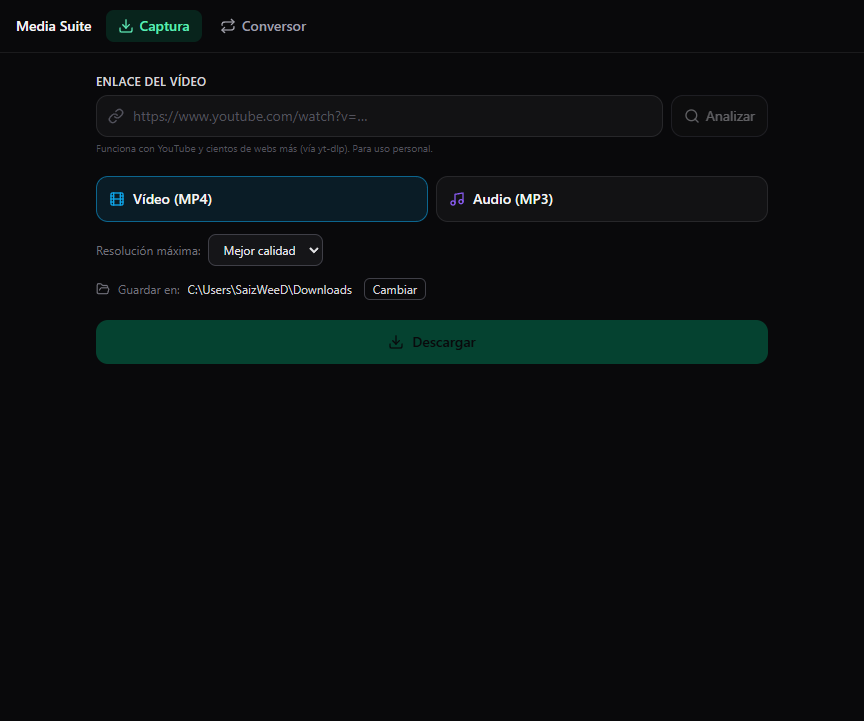
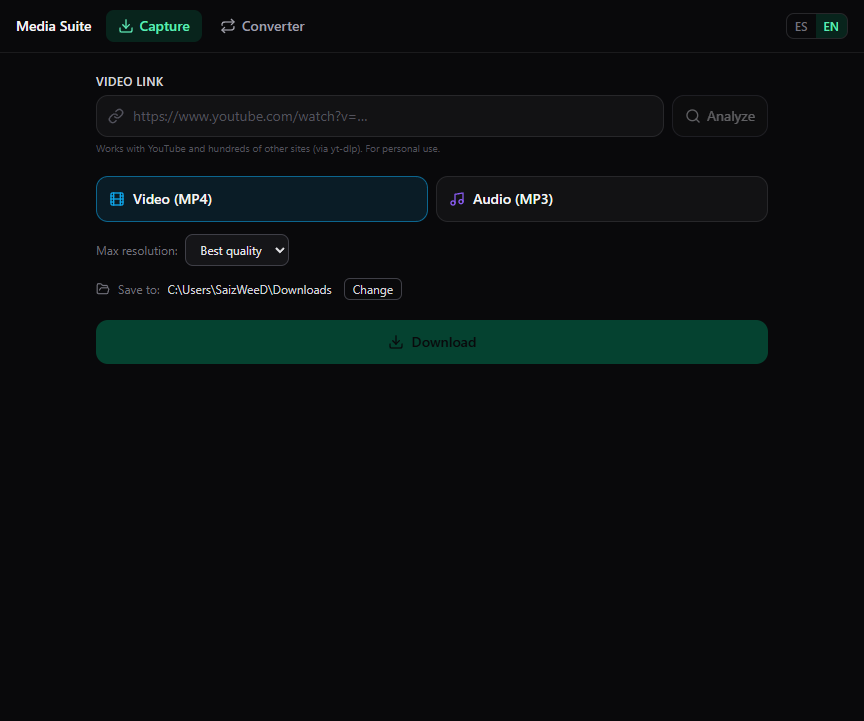
docs: README bilingüe (EN principal + ES) y capturas EN/ES

diff --git a/README.md b/README.md
@@ -4,100 +4,101 @@
 
 # Media Suite
 
-**Descarga y convierte vídeo y audio — app de escritorio para Windows.**
+**Download and convert video & audio — a desktop app for Windows.**
 
-[![Descargar](https://img.shields.io/badge/⬇_Descargar-Releases-10b981?style=for-the-badge)](../../releases/latest)
+[![Download](https://img.shields.io/badge/⬇_Download-Releases-10b981?style=for-the-badge)](../../releases/latest)
 
 [![Electron](https://img.shields.io/badge/Electron-42-47848F?logo=electron&logoColor=white)](https://www.electronjs.org/)
 [![React](https://img.shields.io/badge/React-19-149ECA?logo=react&logoColor=white)](https://react.dev/)
 [![TypeScript](https://img.shields.io/badge/TypeScript-6-3178C6?logo=typescript&logoColor=white)](https://www.typescriptlang.org/)
 [![Tailwind CSS](https://img.shields.io/badge/Tailwind-4-38BDF8?logo=tailwindcss&logoColor=white)](https://tailwindcss.com/)
 
+**English** · [Español](README.es.md)
+
 </div>
 
-Aplicación de escritorio que reúne dos herramientas en una interfaz limpia y rápida:
+A desktop application that bundles two tools in one clean, bilingual interface:
 
-- 🎬 **Captura** — descarga vídeo o audio de YouTube y [cientos de webs más](https://github.com/yt-dlp/yt-dlp/blob/master/supportedsites.md).
-- 🔄 **Conversor** — convierte entre formatos de vídeo y audio con **FFmpeg nativo**.
+- 🎬 **Capture** — download video or audio from YouTube and [hundreds of other sites](https://github.com/yt-dlp/yt-dlp/blob/master/supportedsites.md).
+- 🔄 **Converter** — convert between video and audio formats with **native FFmpeg**.
 
 ---
 
-## 🖼️ Vistazo
+## 🖼️ A look
 
-| Captura (descargas) | Conversor |
+| Capture (downloads) | Converter |
 |:--:|:--:|
-| ![Pestaña Captura](docs/screenshot-captura.png) | ![Pestaña Conversor](docs/screenshot-conversor.png) |
+| ![Capture tab](docs/screenshot-captura.png) | ![Converter tab](docs/screenshot-conversor.png) |
 
 ---
 
-## ⬇️ Descargar e instalar
+## ⬇️ Download & install
 
-Entra en **[Releases](../../releases/latest)** y elige:
+Open **[Releases](../../releases/latest)** and choose:
 
-| Archivo | Qué es |
+| File | What it is |
 |---|---|
-| **`Media Suite Setup x.y.z.exe`** | Instalador para Windows (crea accesos directos). |
-| **`Media Suite-x.y.z-win.zip`** | Versión **portable**: descomprime y ejecuta `Media Suite.exe`, sin instalar. |
+| **`Media Suite Setup x.y.z.exe`** | Windows installer (creates shortcuts). |
+| **`Media Suite-x.y.z-win.zip`** | **Portable** build: unzip and run `Media Suite.exe`, no install. |
 
-> 💡 La primera vez que uses **Captura**, la app descarga `yt-dlp` automáticamente (una sola vez). **FFmpeg ya va incluido.**
+> 💡 The first time you use **Capture**, the app downloads `yt-dlp` automatically (once). **FFmpeg is already bundled.**
 >
-> ⚠️ Al no estar firmada digitalmente, Windows SmartScreen puede avisar la primera vez → *Más información → Ejecutar de todas formas*.
+> ⚠️ The app is unsigned, so Windows SmartScreen may warn on first launch → *More info → Run anyway*.
 
 ---
 
-## ✨ Características
+## ✨ Features
 
-**Captura**
-- Descarga en **vídeo (MP4)** con resolución a elegir, o **audio (MP3)**.
-- Vista previa de título, autor y duración antes de descargar.
-- Progreso en tiempo real y acceso directo al archivo o su carpeta.
+**Capture**
+- Download as **video (MP4)** with selectable resolution, or **audio (MP3)**.
+- Preview title, author and duration before downloading.
+- Real-time progress and one-click access to the file or its folder.
 
-**Conversor**
-- Arrastra y suelta archivos (o selección por diálogo nativo).
-- **Vídeo↔vídeo**, **vídeo→audio** y **audio↔audio**.
-- Selector de calidad y conversión por lotes.
+**Converter**
+- Drag & drop files (or pick them via a native dialog).
+- **Video↔video**, **video→audio** and **audio↔audio**.
+- Quality selector and batch processing.
 
-| Vídeo | Audio |
+| Video | Audio |
 |---|---|
 | MP4 · MKV · MOV · WebM · AVI | MP3 · AAC · M4A · Opus · OGG · WAV · FLAC |
 
+🌐 **Bilingual UI** — English / Spanish, auto-detected and switchable in-app.
+
 ---
 
-## 🧱 Cómo está hecho
+## 🧱 How it's built
 
-| Capa | Tecnología |
+| Layer | Technology |
 |---|---|
-| Escritorio | **Electron** + electron-vite |
-| Interfaz | **React 19** · TypeScript · Tailwind CSS v4 |
-| Descargas | **yt-dlp** (binario gestionado en runtime) |
-| Multimedia | **FFmpeg** (binario embebido) |
-| Empaquetado | electron-builder → instalador NSIS + ZIP |
+| Desktop | **Electron** + electron-vite |
+| UI | **React 19** · TypeScript · Tailwind CSS v4 |
+| Downloads | **yt-dlp** (binary managed at runtime) |
+| Media | **FFmpeg** (bundled binary) |
+| Packaging | electron-builder → NSIS installer + ZIP |
 
-**Arquitectura.** Separación estricta en tres procesos comunicados por un puente
-IPC mínimo y tipado:
+**Architecture.** Strict separation into three processes communicating through a
+minimal, typed IPC bridge:
 
-- **Main (Node).** Ciclo de vida de la app y operaciones con el sistema: lanza
-  FFmpeg para convertir (con progreso parseado de su salida) y yt-dlp para
-  descargar. Resuelve la ruta del binario de FFmpeg también en la app empaquetada
-  (`app.asar.unpacked`).
-- **Preload.** Expone una API mínima y segura (`window.api`) mediante
-  `contextBridge` — la única vía por la que la interfaz habla con el sistema.
-- **Renderer (React).** La interfaz, ejecutada con `contextIsolation` y **sin**
-  `nodeIntegration`. No tiene acceso directo a Node ni al sistema de archivos.
-
----
-
-## 🔒 Código
-
-El código fuente de esta aplicación es **privado**. Este repositorio contiene la
-ficha del proyecto y las descargas. Para una demo técnica o acceso al código,
-contacta con el autor.
+- **Main (Node).** App lifecycle and system operations: runs FFmpeg to convert
+  (with progress parsed from its output) and yt-dlp to download. Resolves the
+  FFmpeg binary path even in the packaged app (`app.asar.unpacked`).
+- **Preload.** Exposes a minimal, secure API (`window.api`) via `contextBridge`
+  — the only channel between the UI and the system.
+- **Renderer (React).** The UI, running with `contextIsolation` and **no**
+  `nodeIntegration`. No direct access to Node or the file system.
 
 ---
 
-## ⚖️ Licencia
+## 🔒 Source code
 
-Software propietario — **todos los derechos reservados** ([LICENSE](LICENSE)).
-Los binarios de *Releases* pueden usarse para fines **personales**.
-Descarga únicamente contenido sobre el que tengas derechos; respeta los términos
-de cada servicio.
+The source code of this app is **private**. This repository hosts the project
+page and the downloads. For a technical demo or code access, contact the author.
+
+---
+
+## ⚖️ License
+
+Proprietary software — **all rights reserved** ([LICENSE](LICENSE)).
+Binaries under *Releases* may be used for **personal** purposes.
+Only download content you have the rights to, and respect each service's terms.

diff --git a/README.es.md b/README.es.md
@@ -1,0 +1,107 @@
+<div align="center">
+
+<img src="docs/icon.png" width="120" alt="Media Suite" />
+
+# Media Suite
+
+**Descarga y convierte vídeo y audio — app de escritorio para Windows.**
+
+[![Descargar](https://img.shields.io/badge/⬇_Descargar-Releases-10b981?style=for-the-badge)](../../releases/latest)
+
+[![Electron](https://img.shields.io/badge/Electron-42-47848F?logo=electron&logoColor=white)](https://www.electronjs.org/)
+[![React](https://img.shields.io/badge/React-19-149ECA?logo=react&logoColor=white)](https://react.dev/)
+[![TypeScript](https://img.shields.io/badge/TypeScript-6-3178C6?logo=typescript&logoColor=white)](https://www.typescriptlang.org/)
+[![Tailwind CSS](https://img.shields.io/badge/Tailwind-4-38BDF8?logo=tailwindcss&logoColor=white)](https://tailwindcss.com/)
+
+[English](README.md) · **Español**
+
+</div>
+
+Aplicación de escritorio que reúne dos herramientas en una interfaz limpia y bilingüe:
+
+- 🎬 **Captura** — descarga vídeo o audio de YouTube y [cientos de webs más](https://github.com/yt-dlp/yt-dlp/blob/master/supportedsites.md).
+- 🔄 **Conversor** — convierte entre formatos de vídeo y audio con **FFmpeg nativo**.
+
+---
+
+## 🖼️ Vistazo
+
+| Captura (descargas) | Conversor |
+|:--:|:--:|
+| ![Pestaña Captura](docs/screenshot-captura-es.png) | ![Pestaña Conversor](docs/screenshot-conversor-es.png) |
+
+---
+
+## ⬇️ Descargar e instalar
+
+Entra en **[Releases](../../releases/latest)** y elige:
+
+| Archivo | Qué es |
+|---|---|
+| **`Media Suite Setup x.y.z.exe`** | Instalador para Windows (crea accesos directos). |
+| **`Media Suite-x.y.z-win.zip`** | Versión **portable**: descomprime y ejecuta `Media Suite.exe`, sin instalar. |
+
+> 💡 La primera vez que uses **Captura**, la app descarga `yt-dlp` automáticamente (una vez). **FFmpeg ya va incluido.**
+>
+> ⚠️ Al no estar firmada, Windows SmartScreen puede avisar la primera vez → *Más información → Ejecutar de todas formas*.
+
+---
+
+## ✨ Características
+
+**Captura**
+- Descarga en **vídeo (MP4)** con resolución a elegir, o **audio (MP3)**.
+- Vista previa de título, autor y duración antes de descargar.
+- Progreso en tiempo real y acceso directo al archivo o su carpeta.
+
+**Conversor**
+- Arrastra y suelta archivos (o selección por diálogo nativo).
+- **Vídeo↔vídeo**, **vídeo→audio** y **audio↔audio**.
+- Selector de calidad y conversión por lotes.
+
+| Vídeo | Audio |
+|---|---|
+| MP4 · MKV · MOV · WebM · AVI | MP3 · AAC · M4A · Opus · OGG · WAV · FLAC |
+
+🌐 **Interfaz bilingüe** — español / inglés, autodetectada y cambiable en la app.
+
+---
+
+## 🧱 Cómo está hecho
+
+| Capa | Tecnología |
+|---|---|
+| Escritorio | **Electron** + electron-vite |
+| Interfaz | **React 19** · TypeScript · Tailwind CSS v4 |
+| Descargas | **yt-dlp** (binario gestionado en runtime) |
+| Multimedia | **FFmpeg** (binario embebido) |
+| Empaquetado | electron-builder → instalador NSIS + ZIP |
+
+**Arquitectura.** Separación estricta en tres procesos comunicados por un puente
+IPC mínimo y tipado:
+
+- **Main (Node).** Ciclo de vida y operaciones con el sistema: lanza FFmpeg para
+  convertir (con progreso parseado de su salida) y yt-dlp para descargar.
+  Resuelve la ruta del binario de FFmpeg también en la app empaquetada
+  (`app.asar.unpacked`).
+- **Preload.** Expone una API mínima y segura (`window.api`) mediante
+  `contextBridge` — la única vía entre la interfaz y el sistema.
+- **Renderer (React).** La interfaz, con `contextIsolation` y **sin**
+  `nodeIntegration`. Sin acceso directo a Node ni al sistema de archivos.
+
+---
+
+## 🔒 Código fuente
+
+El código fuente de esta aplicación es **privado**. Este repositorio contiene la
+ficha del proyecto y las descargas. Para una demo técnica o acceso al código,
+contacta con el autor.
+
+---
+
+## ⚖️ Licencia
+
+Software propietario — **todos los derechos reservados** ([LICENSE](LICENSE)).
+Los binarios de *Releases* pueden usarse para fines **personales**.
+Descarga únicamente contenido sobre el que tengas derechos; respeta los términos
+de cada servicio.